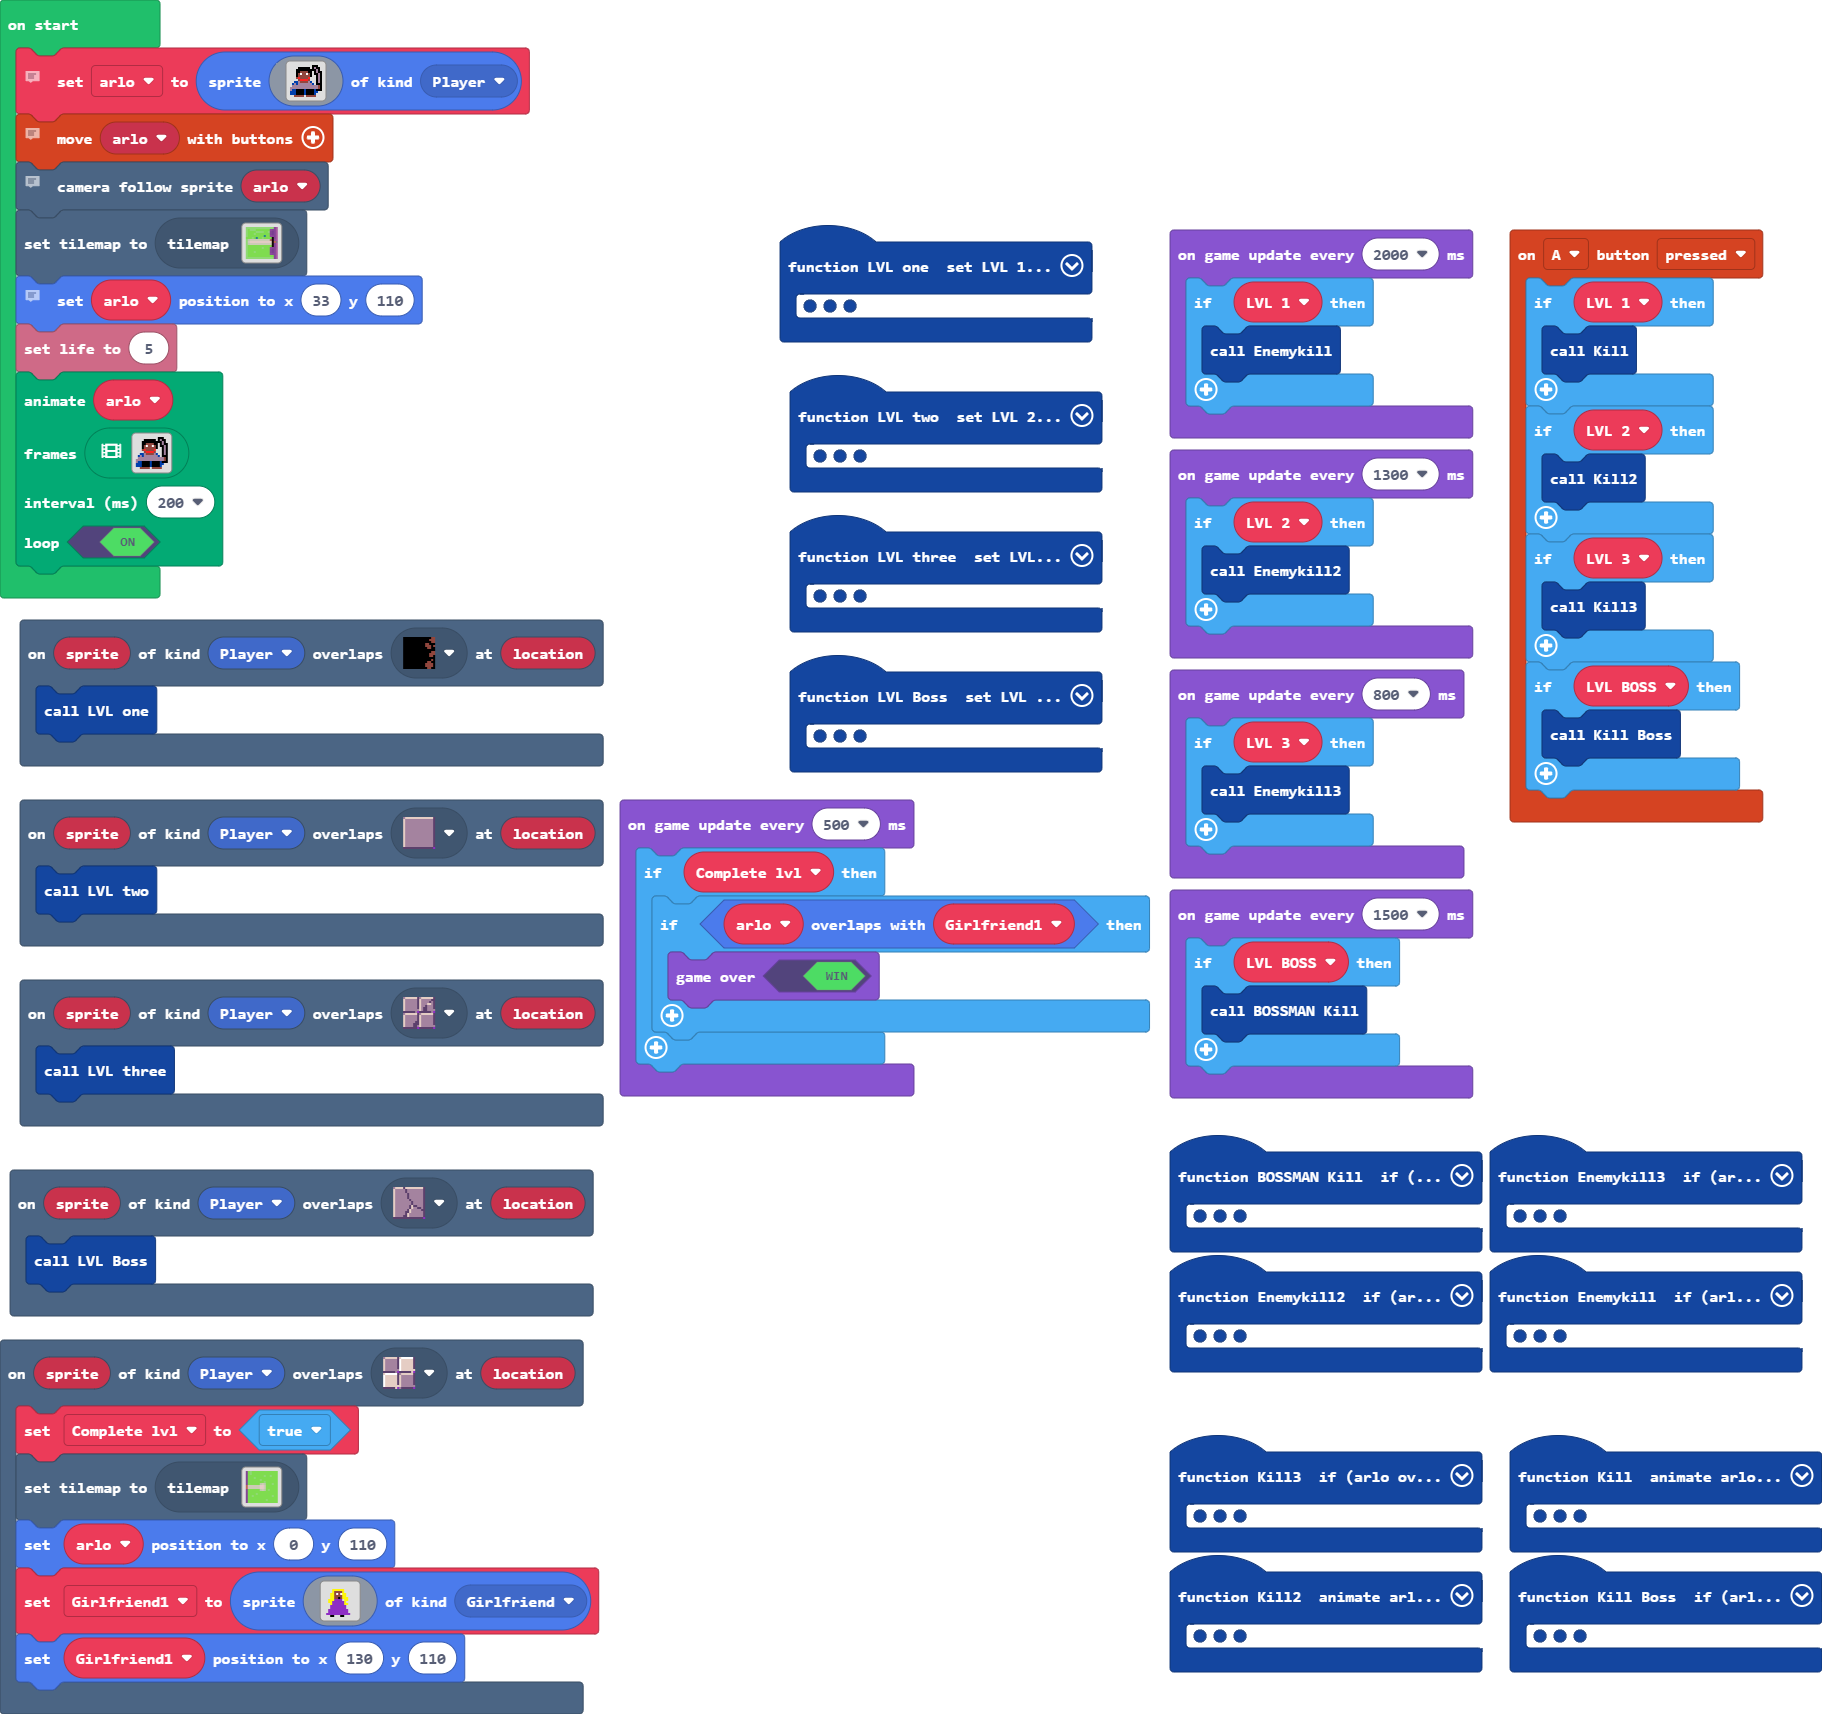
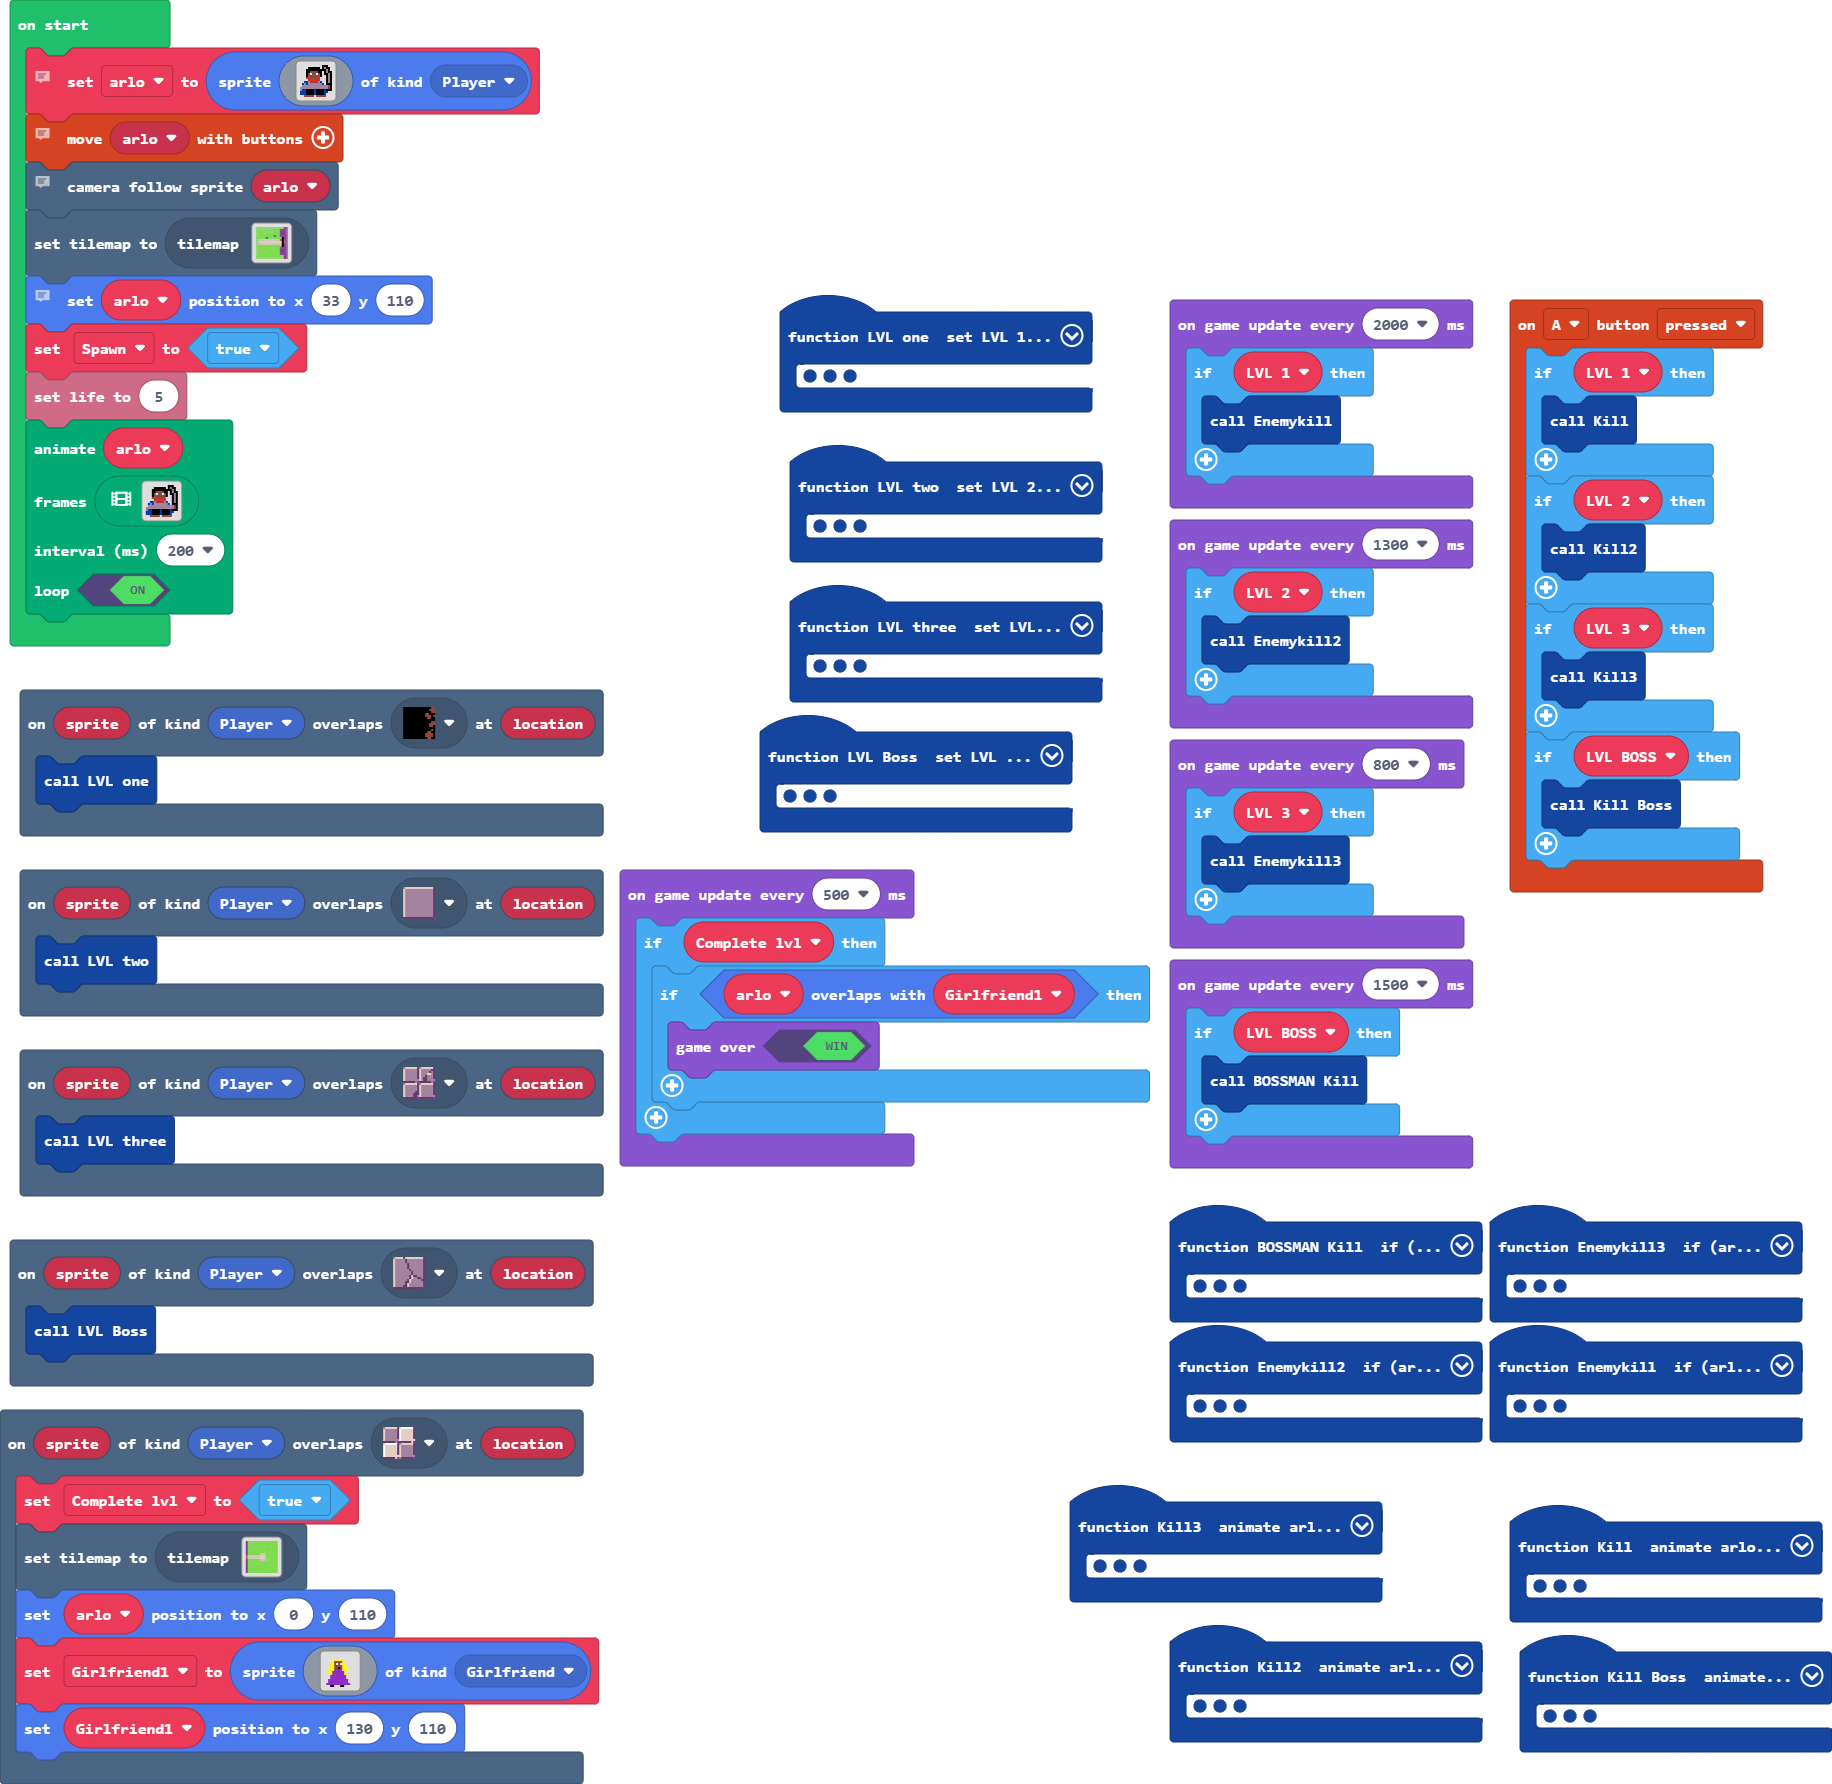
Update main.blocks, main.ts, images.g.jres, images.g.ts

diff --git a/images.g.ts b/images.g.ts
@@ -590,13 +590,84 @@ b88ffff8ffff8fff..............
 888ffff8ffff8.................
 ..eeeee.eeeee.................
 `];
+            case "enemy1 death":
+            case "anim6":return [img`
+. . . . . . . . . . . . . . . . 
+. d . . d . . . . . d . . . . . 
+. d . . d d . . . d d . . . . . 
+d d d . f f f f f f f . . . . . 
+d e d . f 2 f f f 2 f . . . . . 
+. e . . f f f f f f f . . . . . 
+. e . . f f e e e f f . . . . . 
+. e . . . f f f f f . . . . . . 
+. e . . . . f f f . . . . . . . 
+. e . f f f f f f f f f . . . . 
+. f f f f f f f f f f f f . . . 
+. e f f f f f f f f f f . . . . 
+. e . . f f . . f f . . . . . . 
+. e . . f f . . f f . . . . . . 
+. e . . f f . . f f . . . . . . 
+. . . . f f . . f f . . . . . . 
+`, img`
+. . . . . . . . . . d . . . . . 
+. d . . . . . . f f d d . . . . 
+. d . . . . . f f f f f f f . . 
+d d d . . . f f f f 2 f f f d . 
+d e d . . . f f f f f f f f d d 
+. e . . 2 2 f f f e f f 2 f f . 
+. e . . . 2 2 f f f f f f f f . 
+. e . . . . 2 2 f f f f f f f . 
+. e . . 2 2 2 2 f f f . . . . . 
+. e . f f f f f f f f f . . . . 
+. f f f f f f f f f f f f . . . 
+. e f f f f f f f f f f . . . . 
+. e . . f f . . f f . . . . . . 
+. e . . f f . . f f . . . . . . 
+. e . . f f . . f f . . . . . . 
+. . . . f f . . f f . . . . . . 
+`, img`
+. . . . . . . . . . d . . . . . 
+. d . . . . . . f f d d . . . . 
+. d 2 . . . . f f f f f f f . . 
+d d 2 . . . f f f f 2 f f f d . 
+d e d 2 . . f f f f f f f f d d 
+. e . 2 2 2 f f f e f f 2 f f . 
+2 2 . 2 . 2 2 f f f f f f f f . 
+. e 2 2 . . 2 2 f f f f f f f . 
+. e 2 2 2 2 2 2 f f f . . . . . 
+2 2 2 f f f f f f f f f . . . . 
+2 f f f f f f f f f f f f . . . 
+. e f f f f f f f f f f . . . . 
+. e . . f f . . f f . . . . . . 
+. e . . f f . . f f . . . . . . 
+. e . . f f . . f f . . . . . . 
+. . . . f f . . f f . . . . . . 
+`, img`
+. . . . . . . . . . . . . . . . 
+. d . . . . . . 2 2 2 . . . . . 
+. d 2 . . . . 2 . . 2 . . . . . 
+d d 2 . . . . 2 2 . 2 . . . . . 
+d e d 2 . . 2 2 2 . 2 2 . . . . 
+. e . 2 2 2 f . 2 2 2 2 . . . . 
+2 2 . 2 . 2 2 f 2 . . 2 . . . . 
+. e 2 2 . . 2 2 2 . . 2 . . . . 
+. e 2 2 2 2 2 2 2 2 2 . . . . . 
+2 2 2 f f f f f f f f f . . . . 
+2 f f f f f f f f f f f f . . . 
+. e f f f f f f f f f f . . . . 
+. e . . f f . . f f . . . . . . 
+. e . . f f . . f f . f f f e f 
+. e . . f f . . f f . f f f f f 
+. . . . f f . . f f . f f 2 f 2 
+`];
         }
         return null;
     })
 
     helpers._registerFactory("song", function(name: string) {
         switch(helpers.stringTrim(name)) {
-
+            case "song1":
[1 lines of base64/hex data omitted]
         }
         return null;
     })

diff --git a/main.ts b/main.ts
@@ -38,6 +38,7 @@ function LVL_one () {
     200,
     true
     )
+    music.play(music.melodyPlayable(music.spooky), music.PlaybackMode.LoopingInBackground)
 }
 controller.A.onEvent(ControllerButtonEvent.Pressed, function () {
     if (LVL_1) {
@@ -82,6 +83,7 @@ function LVL_Boss () {
     200,
     true
     )
+    music.play(music.melodyPlayable(music.spooky), music.PlaybackMode.LoopingInBackground)
 }
 function LVL_three () {
     LVL_3 = true
@@ -171,22 +173,23 @@ function LVL_three () {
     200,
     true
     )
+    music.play(music.melodyPlayable(music.spooky), music.PlaybackMode.LoopingInBackground)
 }
 function Kill2 () {
     animation.runImageAnimation(
     arlo,
     assets.animation`myAnim0`,
-    200,
+    100,
     false
     )
     if (arlo.overlapsWith(Enemy_4)) {
-        sprites.destroy(Enemy_4)
+        sprites.destroy(Enemy_4, effects.blizzard, 500)
     } else if (arlo.overlapsWith(Enemy_5)) {
-        sprites.destroy(Enemy_5)
+        sprites.destroy(Enemy_5, effects.blizzard, 500)
     } else if (arlo.overlapsWith(Enemy_6)) {
-        sprites.destroy(Enemy_6)
+        sprites.destroy(Enemy_6, effects.blizzard, 500)
     } else if (arlo.overlapsWith(Enemy_7)) {
-        sprites.destroy(Enemy_7)
+        sprites.destroy(Enemy_7, effects.blizzard, 500)
     }
 }
 function Kill () {
@@ -197,11 +200,11 @@ function Kill () {
     false
     )
     if (arlo.overlapsWith(Enemy1)) {
-        sprites.destroy(Enemy1)
+        sprites.destroy(Enemy1, effects.ashes, 500)
     } else if (arlo.overlapsWith(Enemy_2)) {
-        sprites.destroy(Enemy_2)
+        sprites.destroy(Enemy_2, effects.ashes, 500)
     } else if (arlo.overlapsWith(Enemy_3)) {
-        sprites.destroy(Enemy_3)
+        sprites.destroy(Enemy_3, effects.ashes, 500)
     }
 }
 function BOSSMAN_Kill () {
@@ -275,16 +278,29 @@ function LVL_two () {
     200,
     true
     )
+    music.play(music.melodyPlayable(music.spooky), music.PlaybackMode.LoopingInBackground)
 }
 function Kill_Boss () {
+    animation.runImageAnimation(
+    arlo,
+    assets.animation`myAnim0`,
+    100,
+    false
+    )
     if (arlo.overlapsWith(BOSSMAN)) {
         BOSSMAN_Lives += 1
         if (BOSSMAN_Lives == 7) {
-            sprites.destroy(BOSSMAN)
+            sprites.destroy(BOSSMAN, effects.fire, 500)
         }
     }
 }
 function Kill3 () {
+    animation.runImageAnimation(
+    arlo,
+    assets.animation`myAnim0`,
+    100,
+    false
+    )
     if (arlo.overlapsWith(Enemy_8)) {
         Enemy_8_lives += 1
         if (Enemy_8_lives == 4) {
@@ -334,6 +350,7 @@ scene.cameraFollowSprite(arlo)
 tiles.setCurrentTilemap(tilemap`Start`)
 // Sætter Arlo's startposition i verdenen
 arlo.setPosition(33, 110)
+let Spawn = true
 info.setLife(5)
 animation.runImageAnimation(
 arlo,
